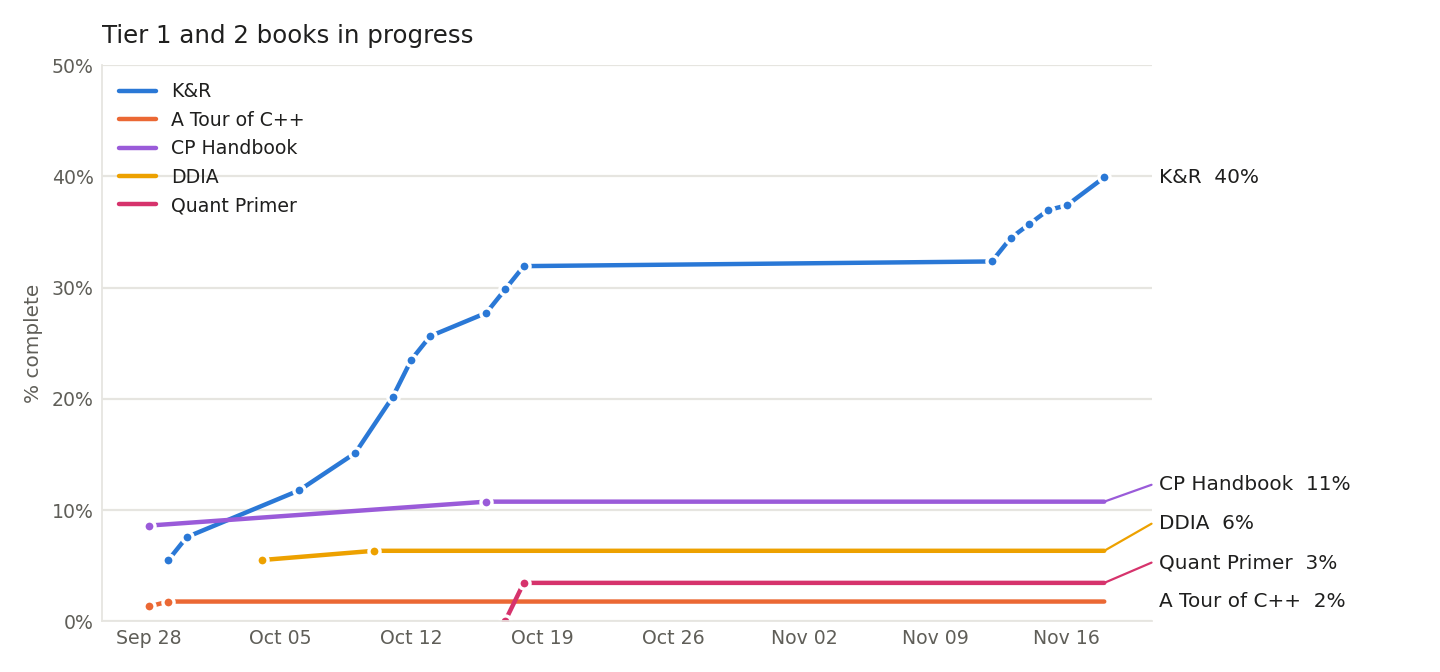
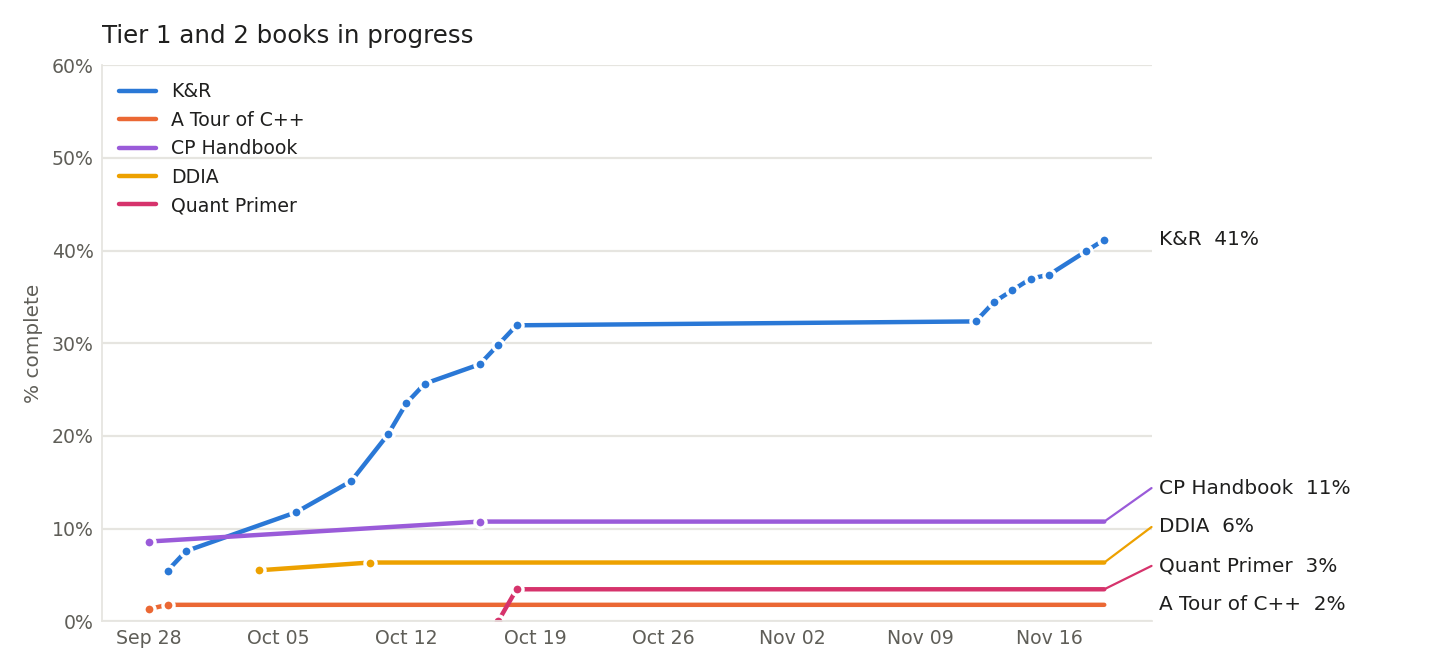
Log K&R progress, 98 pages read, finished 5.6

diff --git a/tracks/quant.md b/tracks/quant.md
@@ -8,8 +8,8 @@
   memmove over contiguous memory that runs at many GB/s. For a few hundred elements it is often faster than a skip list's
   pointer chasing, allocations, and random-level logic. Big-O hides constant factors and cache behavior. Read K&R for the
   memory model, pointers, and arrays; the cache-locality half of the lesson belongs to the low-latency book in the career track.
-  Log: 2026-09-29 started, read to page 13. 2026-09-30 to page 18. 2026-10-06 to page 28. 2026-10-09 to page 36, finished chapter 1. 2026-10-11 to page 41 (through 2.6), then read 2.8 through 2.12 with 2.7 skipped. 2026-10-12 backfilled 2.7, chapter 2 done, then to page 56. 2026-10-13 to page 61, chapter 3 done. 2026-10-16 to page 66, 4.2 done. 2026-10-17 to page 71, 4.3 done (reverse Polish calculator). 2026-10-18 to page 76, 4.8 done. 2026-11-12 to page 77, first page back after a 25-day break. 2026-11-13 to page 82, chapter 4 done (4.9 to 4.11: initialization, recursion, preprocessor). 2026-11-14 to page 85, into chapter 5. 2026-11-15 to page 88. 2026-11-16 to page 89, 5.3 done. 2026-11-18 to page 92, 5.4 done (address arithmetic, alloc and afree), then to page 95, 5.5 done (strcpy, strcmp). Currently on
-  page 96 of 238 (40%), section 5.6 Pointer Arrays; Pointers to Pointers.
+  Log: 2026-09-29 started, read to page 13. 2026-09-30 to page 18. 2026-10-06 to page 28. 2026-10-09 to page 36, finished chapter 1. 2026-10-11 to page 41 (through 2.6), then read 2.8 through 2.12 with 2.7 skipped. 2026-10-12 backfilled 2.7, chapter 2 done, then to page 56. 2026-10-13 to page 61, chapter 3 done. 2026-10-16 to page 66, 4.2 done. 2026-10-17 to page 71, 4.3 done (reverse Polish calculator). 2026-10-18 to page 76, 4.8 done. 2026-11-12 to page 77, first page back after a 25-day break. 2026-11-13 to page 82, chapter 4 done (4.9 to 4.11: initialization, recursion, preprocessor). 2026-11-14 to page 85, into chapter 5. 2026-11-15 to page 88. 2026-11-16 to page 89, 5.3 done. 2026-11-18 to page 92, 5.4 done (address arithmetic, alloc and afree), then to page 95, 5.5 done (strcpy, strcmp). 2026-11-19 to page 98, 5.6 done (line sort with pointer arrays). Currently on
+  page 99 of 238 (41%), section 5.7 Multi-dimensional Arrays.
 - [~] **A Tour of C++** by Bjarne Stroustrup (Tier 1)
   Fast, authoritative overview of modern C++. Second priority overall, after K&R. Also pays off directly in competitive programming.
   Plan (started 2026-09-28): one pass, no re-reading. Chapters 1 to 8 (core language) at one chapter per sitting with a

diff --git a/README.md b/README.md
@@ -15,7 +15,7 @@ Personal reading list across three tracks. Each track lives in its own file unde
 <!-- progress:start -->
 | Book | Progress | | Unit |
 |---|---|---|---|
-| K&R | `████████░░░░░░░░░░░░` | 40% | 95 of 238 pages |
+| K&R | `████████░░░░░░░░░░░░` | 41% | 98 of 238 pages |
 | A Tour of C++ | `░░░░░░░░░░░░░░░░░░░░` | 2% | 4 of 226 pages |
 | CP Handbook | `██░░░░░░░░░░░░░░░░░░` | 11% | 30 of 279 pages |
 | DDIA | `█░░░░░░░░░░░░░░░░░░░` | 6% | 38 of 600 pages |
